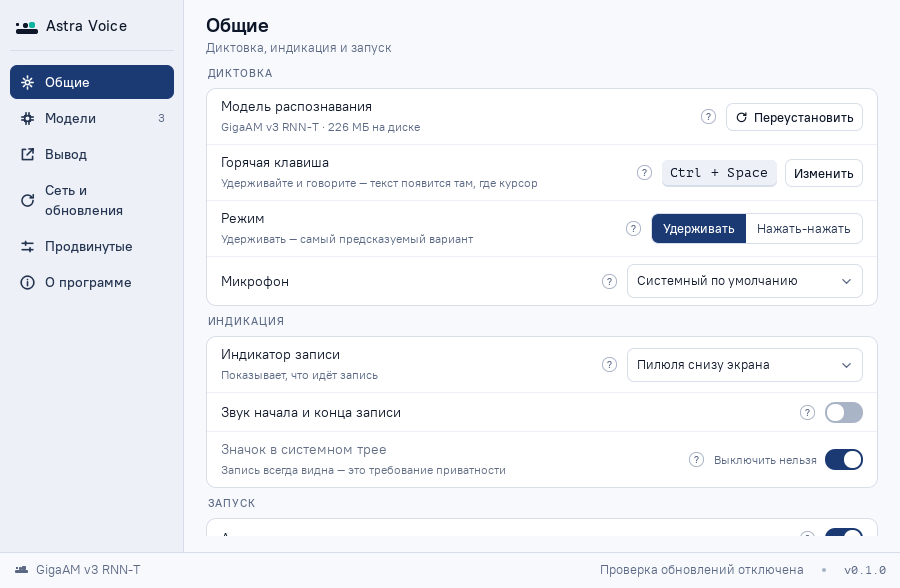
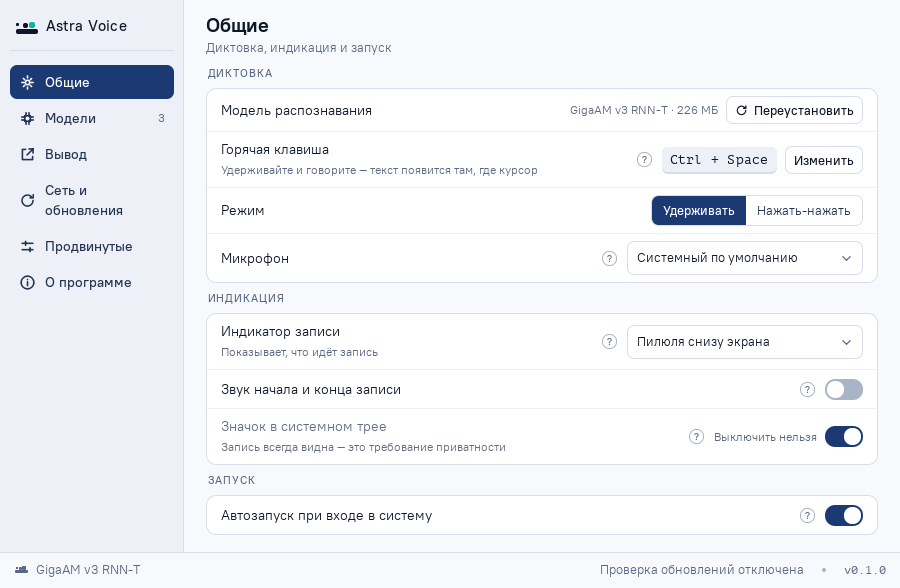
«Общие» помещаются без прокрутки: строка модели в одну строку, подпись «Режима» снята

diff --git a/qml/sections/General.qml b/qml/sections/General.qml
@@ -61,11 +61,27 @@ Column {
             width: parent.width
             divider: false
             label: qsTr("Модель распознавания")
-            sub: !root.settings || root.activeModelState === "none" || root.settings.activeModelName === ""
-                ? qsTr("Модель не установлена")
-                : root.settings.activeModelSize !== ""
-                    ? qsTr("%1 · %2 на диске").arg(root.settings.activeModelName).arg(root.settings.activeModelSize)
-                    : root.settings.activeModelName
+            // Подписи нет намеренно: имя модели стоит справа, у самих кнопок.
+            // Со второй строкой раздел перестаёт помещаться без прокрутки.
+            showHint: false
+
+            Text {
+                textFormat: Text.PlainText
+                text: !root.settings || root.activeModelState === "none"
+                        || root.settings.activeModelName === ""
+                    ? qsTr("Модель не установлена")
+                    : root.settings.activeModelSize !== ""
+                        ? qsTr("%1 · %2").arg(root.settings.activeModelName)
+                            .arg(root.settings.activeModelSize)
+                        : root.settings.activeModelName
+                color: Theme.fgMuted
+                font.family: Theme.fontUi
+                font.pixelSize: Theme.fontSettingSubSize
+                renderType: Text.NativeRendering
+                elide: Text.ElideRight
+                Layout.maximumWidth: root.width / 3
+                Layout.alignment: Qt.AlignVCenter
+            }
 
             Text {
                 textFormat: Text.PlainText
@@ -162,7 +178,9 @@ Column {
         SettingRow {
             width: parent.width
             label: qsTr("Режим")
-            sub: qsTr("Удерживать — самый предсказуемый вариант")
+            // Подписи нет: смысл виден по самим кнопкам, а раздел должен
+            // помещаться без прокрутки (решение заказчика 22.09).
+            showHint: false
             locked: root.isLocked("hotkey_mode")
 
             AvSegmented {

diff --git a/decisions/log.md b/decisions/log.md
@@ -1982,3 +1982,14 @@
   путь (уже есть) — тогда правка выше и есть лечение.
 - В `docs/test-plan.md`: строка «значок трея на тёмной панели виден в KDE и во Fly, на теме значков, не наследующей
   hicolor» — проверять до каждого выпуска. Тёмный кадр трея (`09-tray-dark.png`) был отложен на M11 — поднять в M6.
+
+## 2026-09-22 — Прокрутка в «Общих» убрана: строка модели в одну строку, подпись «Режима» снята
+- Заказчик на живой `m5.4`: «снизу прокрутка появилась в настройках, что не есть хорошо». Причина — восьмая строка
+  («Модель распознавания»), добавленная вчера: раздел перестал помещаться в 552 px. Вчера я решил «терпим до M6» —
+  решение отменяется, прокрутка в единственном рабочем разделе выглядит как недоделка.
+- **Сделано:** (1) строка модели стала однострочной — имя и размер («GigaAM v3 RNN-T · 226 МБ») ушли вправо, к
+  кнопкам, подписи под названием нет; (2) у строки «Режим» снята подпись «Удерживать — самый предсказуемый вариант»:
+  смысл виден по самим кнопкам «Удерживать» / «Нажать-нажать». Итог — всё помещается, «Автозапуск» виден целиком.
+- **Почему не перенёс модель в раздел «Модели»:** разделов в окне пока нет вовсе — любой пункт бокового меню
+  показывает «Общие» (механизм разделов = M6). Перенос сейчас означал бы строить этот механизм, а это уже M6.
+- Макет: `01-general-*` надо пересобрать под новую раскладку (design-engineer, вместе с задачами M6).
